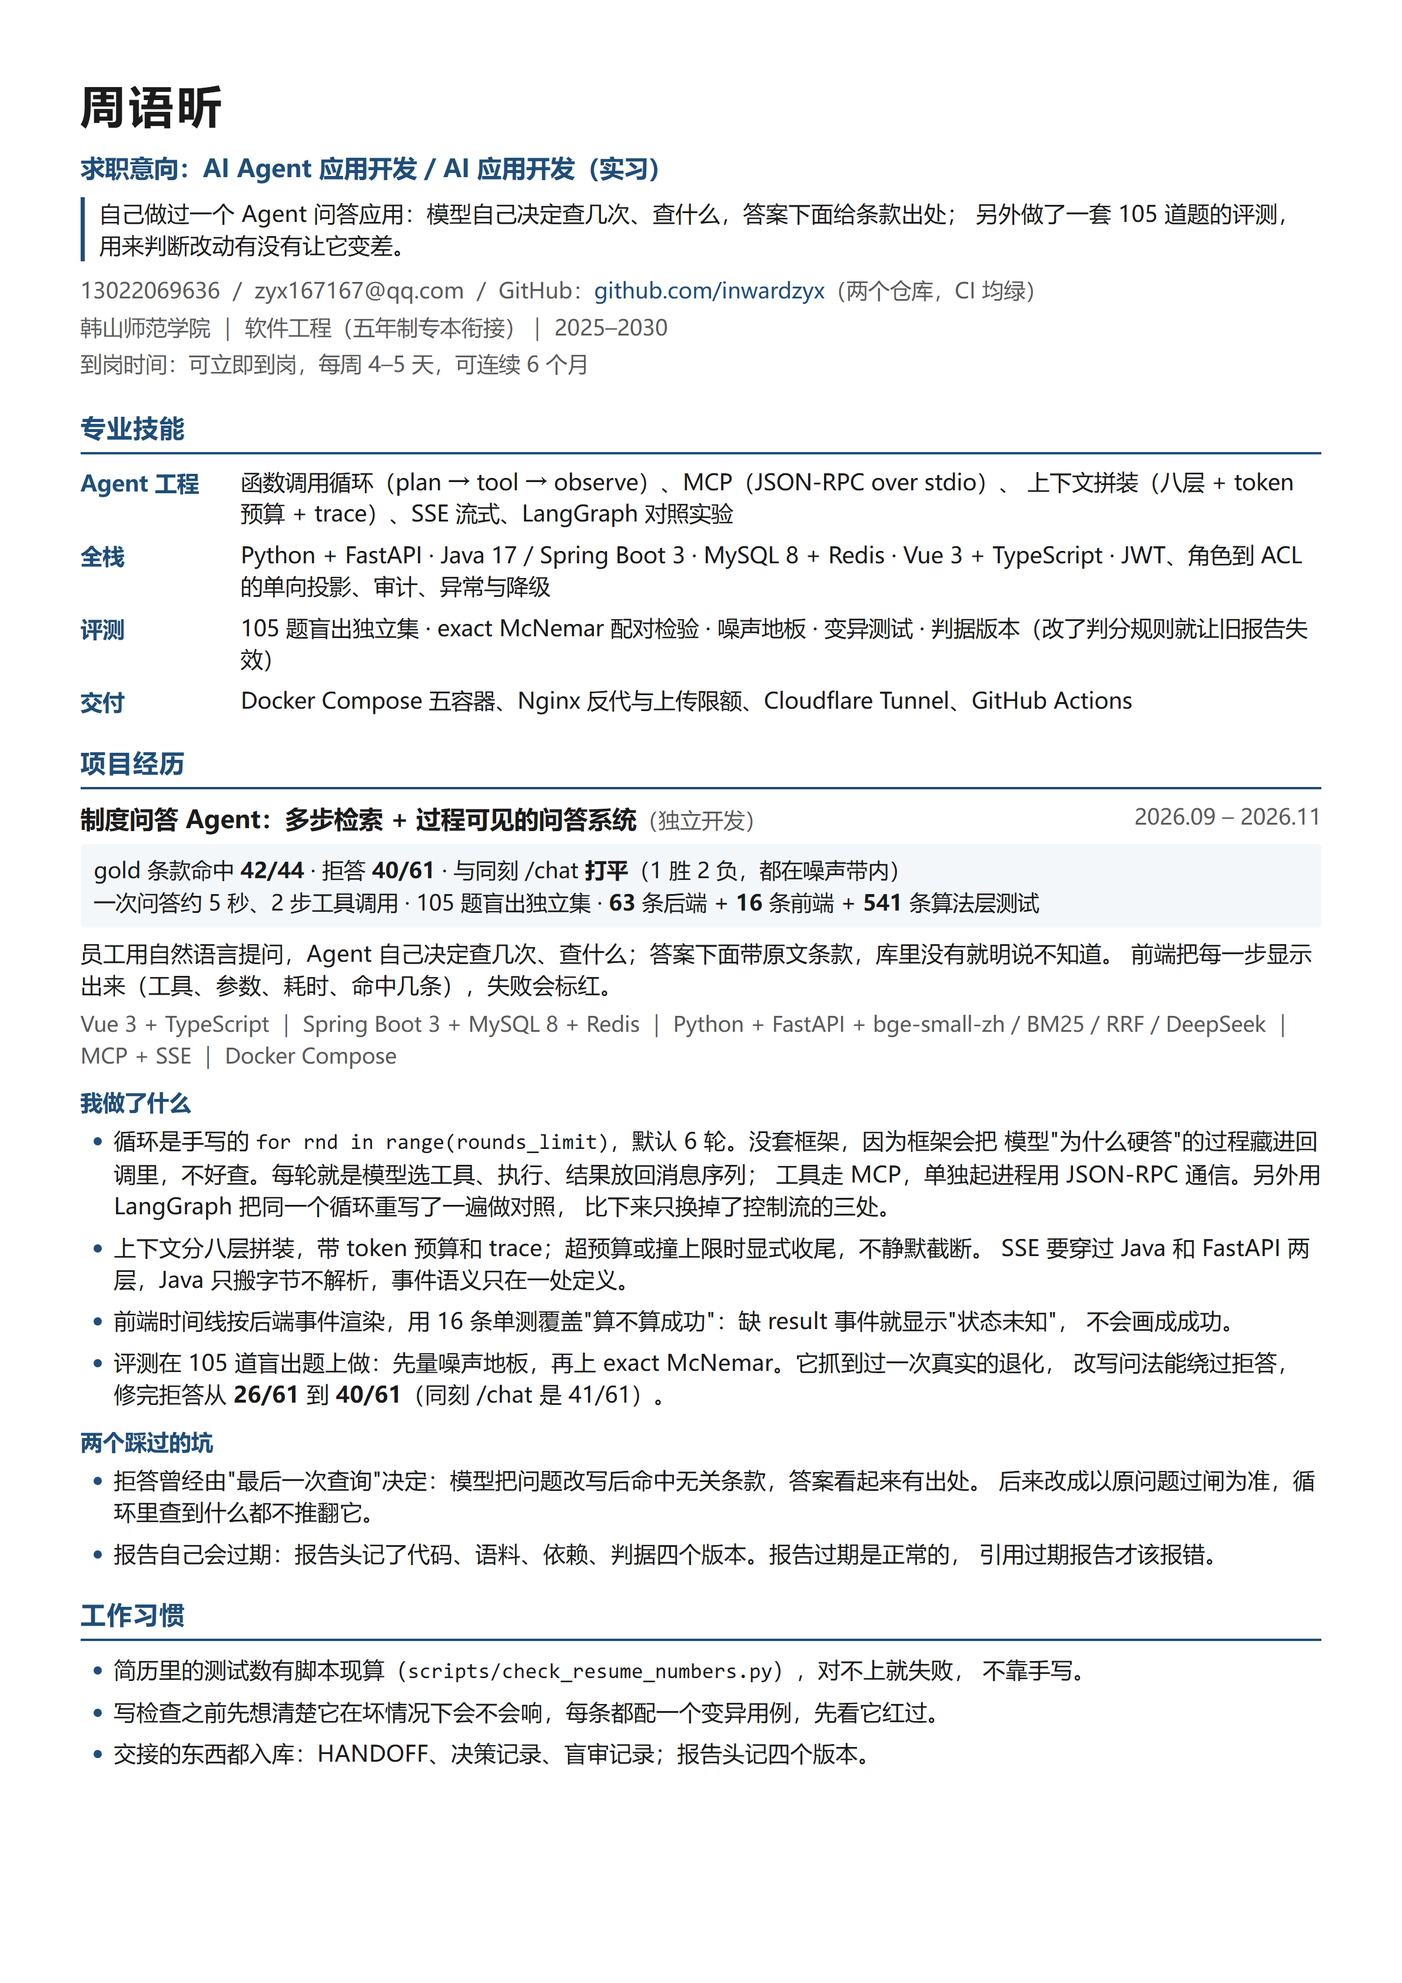
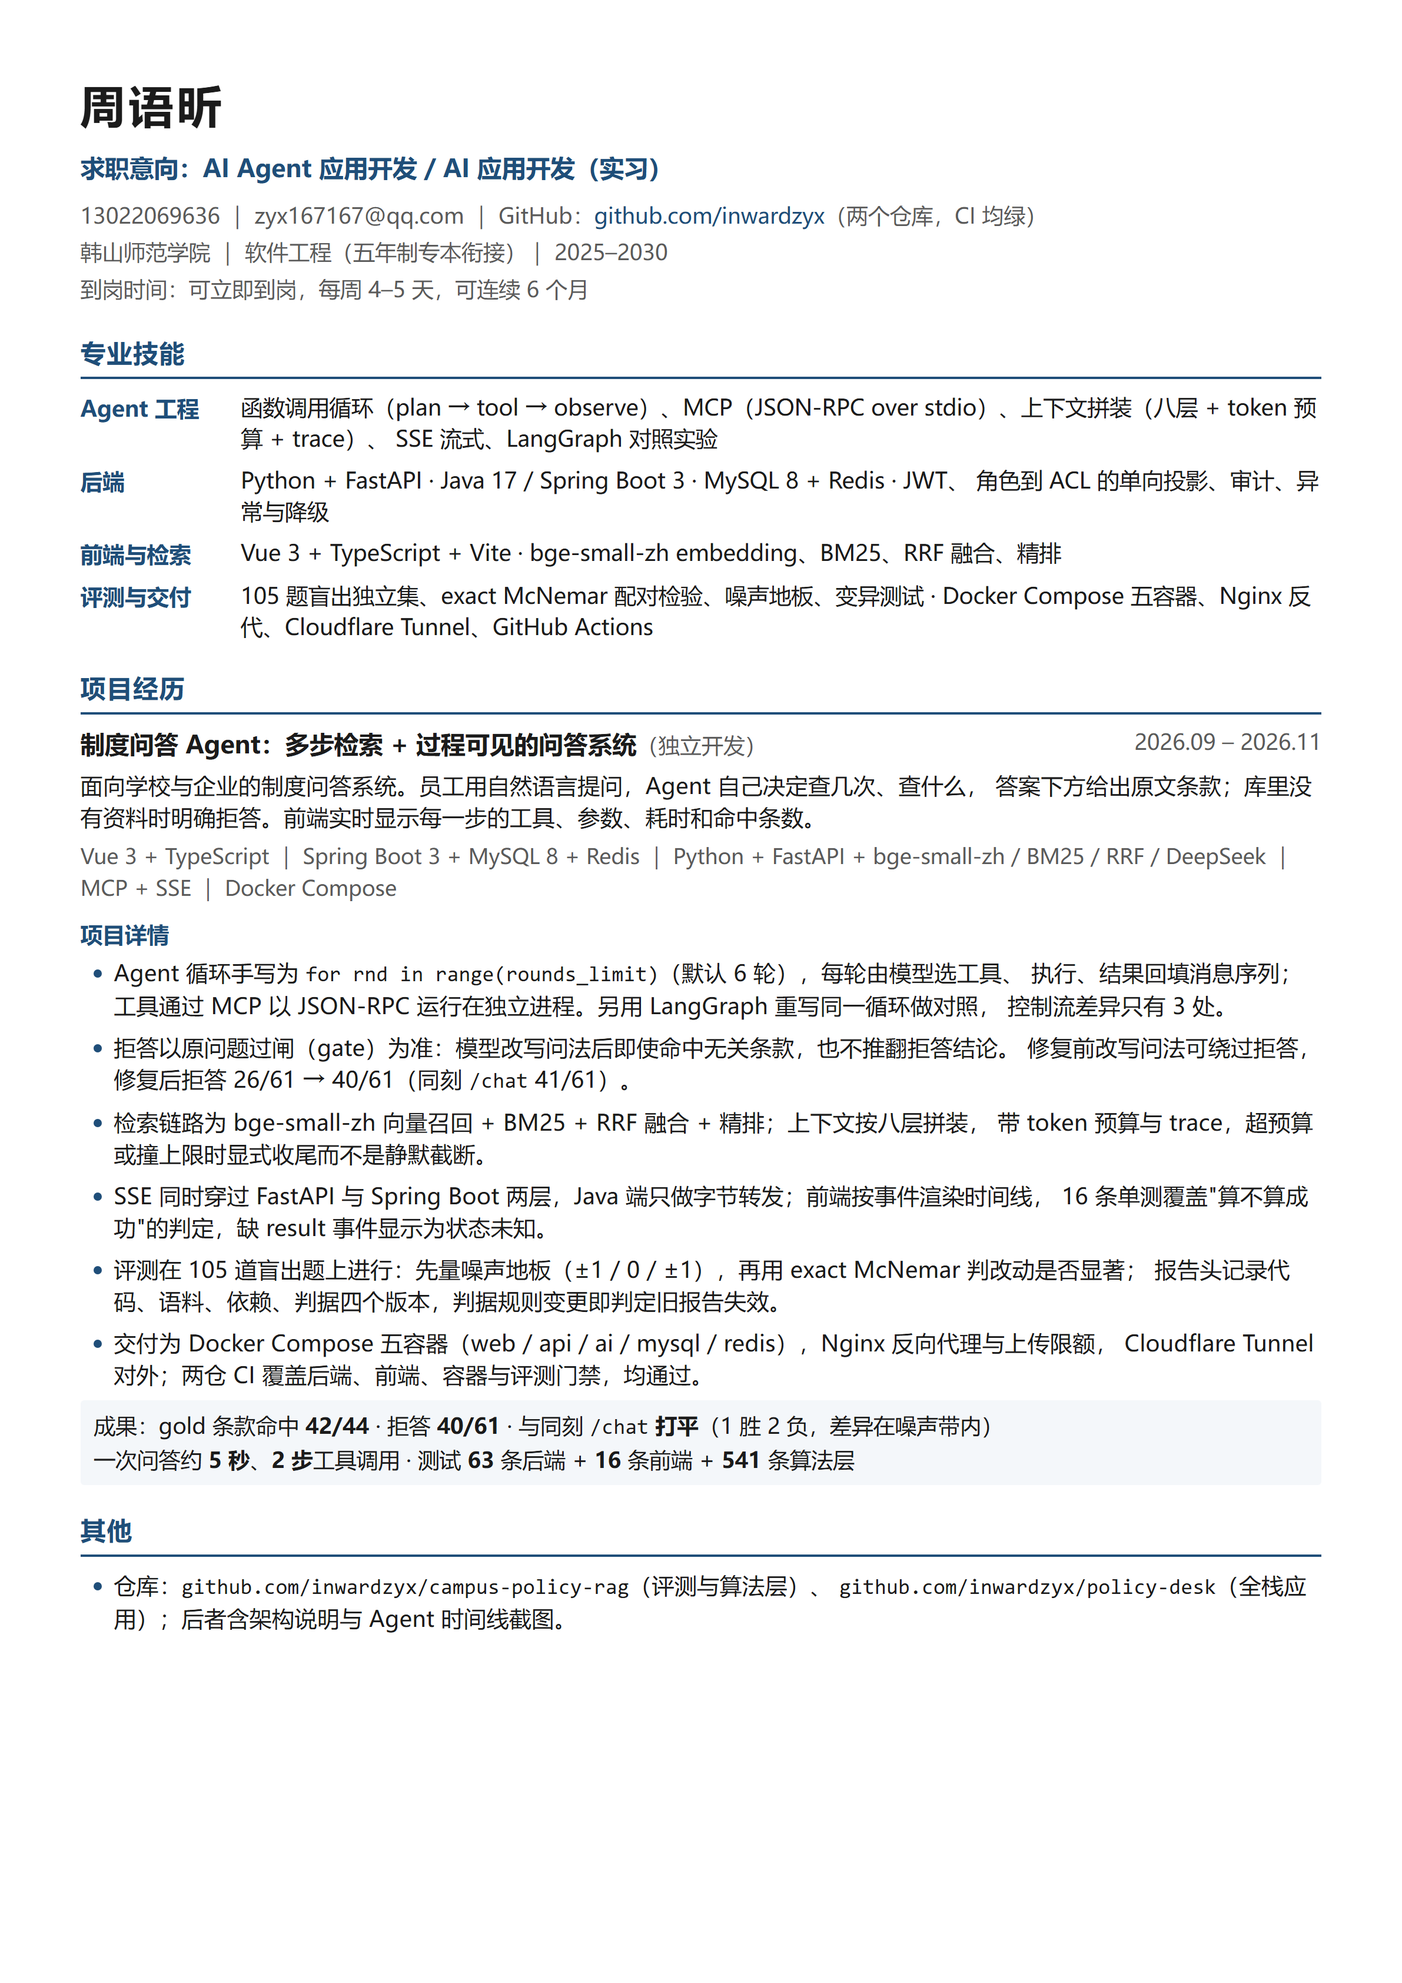
docs(resume): 按项目详情骨架重排 —— 删「工作习惯」「两个踩过的坑」，补检索链路与交付细节
- 删掉两个自评式小节（工作习惯 3 条、两个踩过的坑 2 条）：面试官无法核验，占版面
- 「我做了什么」→「项目详情」，写成 6 条事实：循环与 MCP、拒答过闸与 26/61→40/61、
  检索链路（embedding + BM25 + RRF + 精排）与上下文八层、SSE 两层与 16 条单测、
  105 题评测与四版本、五容器交付与两仓 CI
- 成果单独一块（42/44、40/61、打平、5 秒 2 步、63+16+541），比夹在正文里好扫
- 新增「其他」一节只留两个仓库地址（一行），不放自评
- 仍是一页；破折号 0、加粗 8；check_resume_numbers.py ✓

Changed region(s): [[0.0621, 0.0935, 0.932, 0.9038], [0.7767, 0.0935, 0.9009, 0.1247]]

diff --git a/docs/resume-final-img.html b/docs/resume-final-img.html
@@ -68,12 +68,8 @@
   <div>
     <h1>周语昕</h1>
     <div class="intent">求职意向：AI Agent 应用开发 / AI 应用开发（实习）</div>
-    <div class="pitch">
-      自己做过一个 Agent 问答应用：模型自己决定查几次、查什么，答案下面给条款出处；
-      另外做了一套 105 道题的评测，用来判断改动有没有让它变差。
-    </div>
     <div class="contact">
-      13022069636 ／ zyx167167@qq.com ／
+      13022069636 ｜ zyx167167@qq.com ｜
       GitHub：<a href="https://github.com/inwardzyx">github.com/inwardzyx</a>（两个仓库，CI 均绿）<br />
       韩山师范学院 ｜ 软件工程（五年制专本衔接）｜ 2025–2030<br />
       到岗时间：可立即到岗，每周 4–5 天，可连续 6 个月
@@ -86,64 +82,58 @@
 <h2>专业技能</h2>
 <div class="skills">
   <div class="k">Agent 工程</div>
-  <div>函数调用循环（plan → tool → observe）、MCP（JSON-RPC over stdio）、
-    上下文拼装（八层 + token 预算 + trace）、SSE 流式、LangGraph 对照实验</div>
+  <div>函数调用循环（plan → tool → observe）、MCP（JSON-RPC over stdio）、上下文拼装（八层 + token 预算 + trace）、
+    SSE 流式、LangGraph 对照实验</div>
 
-  <div class="k">全栈</div>
-  <div>Python + FastAPI · Java 17 / Spring Boot 3 · MySQL 8 + Redis · Vue 3 + TypeScript ·
-    JWT、角色到 ACL 的单向投影、审计、异常与降级</div>
+  <div class="k">后端</div>
+  <div>Python + FastAPI · Java 17 / Spring Boot 3 · MySQL 8 + Redis · JWT、
+    角色到 ACL 的单向投影、审计、异常与降级</div>
 
-  <div class="k">评测</div>
-  <div>105 题盲出独立集 · exact McNemar 配对检验 · 噪声地板 · 变异测试 ·
-    判据版本（改了判分规则就让旧报告失效）</div>
+  <div class="k">前端与检索</div>
+  <div>Vue 3 + TypeScript + Vite · bge-small-zh embedding、BM25、RRF 融合、精排</div>
 
-  <div class="k">交付</div>
-  <div>Docker Compose 五容器、Nginx 反代与上传限额、Cloudflare Tunnel、GitHub Actions</div>
+  <div class="k">评测与交付</div>
+  <div>105 题盲出独立集、exact McNemar 配对检验、噪声地板、变异测试 ·
+    Docker Compose 五容器、Nginx 反代、Cloudflare Tunnel、GitHub Actions</div>
 </div>
 
 <h2>项目经历</h2>
 
 <h3>制度问答 Agent：多步检索 + 过程可见的问答系统<span class="role">（独立开发）</span><span class="when">2026.09 – 2026.11</span></h3>
-<div class="result-first">
-  gold 条款命中 <b>42/44</b> · 拒答 <b>40/61</b> · 与同刻 /chat <b>打平</b>（1 胜 2 负，都在噪声带内）<br />
-  一次问答约 5 秒、2 步工具调用 · 105 题盲出独立集 · <b>63</b> 条后端 + <b>16</b> 条前端 + <b>541</b> 条算法层测试
-</div>
 <div class="desc">
-  员工用自然语言提问，Agent 自己决定查几次、查什么；答案下面带原文条款，库里没有就明说不知道。
-  前端把每一步显示出来（工具、参数、耗时、命中几条），失败会标红。
+  面向学校与企业的制度问答系统。员工用自然语言提问，Agent 自己决定查几次、查什么，
+  答案下方给出原文条款；库里没有资料时明确拒答。前端实时显示每一步的工具、参数、耗时和命中条数。
 </div>
 <div class="stack">
   Vue 3 + TypeScript ｜ Spring Boot 3 + MySQL 8 + Redis ｜ Python + FastAPI + bge-small-zh / BM25 / RRF / DeepSeek ｜ MCP + SSE ｜ Docker Compose
 </div>
 
-<div class="lab">我做了什么</div>
+<div class="lab">项目详情</div>
 <ul>
-  <li>循环是手写的 <code>for rnd in range(rounds_limit)</code>，默认 6 轮。没套框架，因为框架会把
-    模型"为什么硬答"的过程藏进回调里，不好查。每轮就是模型选工具、执行、结果放回消息序列；
-    工具走 MCP，单独起进程用 JSON-RPC 通信。另外用 LangGraph 把同一个循环重写了一遍做对照，
-    比下来只换掉了控制流的三处。</li>
-  <li>上下文分八层拼装，带 token 预算和 trace；超预算或撞上限时显式收尾，不静默截断。
-    SSE 要穿过 Java 和 FastAPI 两层，Java 只搬字节不解析，事件语义只在一处定义。</li>
-  <li>前端时间线按后端事件渲染，用 16 条单测覆盖"算不算成功"：缺 result 事件就显示"状态未知"，
-    不会画成成功。</li>
-  <li>评测在 105 道盲出题上做：先量噪声地板，再上 exact McNemar。它抓到过一次真实的退化，
-    改写问法能绕过拒答，修完拒答从 <b>26/61</b> 到 <b>40/61</b>（同刻 /chat 是 41/61）。</li>
+  <li>Agent 循环手写为 <code>for rnd in range(rounds_limit)</code>（默认 6 轮），每轮由模型选工具、
+    执行、结果回填消息序列；工具通过 MCP 以 JSON-RPC 运行在独立进程。另用 LangGraph 重写同一循环做对照，
+    控制流差异只有 3 处。</li>
+  <li>拒答以原问题过闸（gate）为准：模型改写问法后即使命中无关条款，也不推翻拒答结论。
+    修复前改写问法可绕过拒答，修复后拒答 26/61 → 40/61（同刻 <code>/chat</code> 41/61）。</li>
+  <li>检索链路为 bge-small-zh 向量召回 + BM25 + RRF 融合 + 精排；上下文按八层拼装，
+    带 token 预算与 trace，超预算或撞上限时显式收尾而不是静默截断。</li>
+  <li>SSE 同时穿过 FastAPI 与 Spring Boot 两层，Java 端只做字节转发；前端按事件渲染时间线，
+    16 条单测覆盖"算不算成功"的判定，缺 result 事件显示为状态未知。</li>
+  <li>评测在 105 道盲出题上进行：先量噪声地板（±1 / 0 / ±1），再用 exact McNemar 判改动是否显著；
+    报告头记录代码、语料、依赖、判据四个版本，判据规则变更即判定旧报告失效。</li>
+  <li>交付为 Docker Compose 五容器（web / api / ai / mysql / redis），Nginx 反向代理与上传限额，
+    Cloudflare Tunnel 对外；两仓 CI 覆盖后端、前端、容器与评测门禁，均通过。</li>
 </ul>
 
-<div class="lab">两个踩过的坑</div>
-<ul>
-  <li>拒答曾经由"最后一次查询"决定：模型把问题改写后命中无关条款，答案看起来有出处。
-    后来改成以原问题过闸为准，循环里查到什么都不推翻它。</li>
-  <li>报告自己会过期：报告头记了代码、语料、依赖、判据四个版本。报告过期是正常的，
-    引用过期报告才该报错。</li>
-</ul>
+<div class="result-first">
+  成果：gold 条款命中 <b>42/44</b> · 拒答 <b>40/61</b> · 与同刻 <code>/chat</code> <b>打平</b>（1 胜 2 负，差异在噪声带内）<br />
+  一次问答约 <b>5 秒</b>、<b>2 步</b>工具调用 · 测试 <b>63</b> 条后端 + <b>16</b> 条前端 + <b>541</b> 条算法层
+</div>
 
-<h2>工作习惯</h2>
+<h2>其他</h2>
 <ul>
-  <li>简历里的测试数有脚本现算（<code>scripts/check_resume_numbers.py</code>），对不上就失败，
-    不靠手写。</li>
-  <li>写检查之前先想清楚它在坏情况下会不会响，每条都配一个变异用例，先看它红过。</li>
-  <li>交接的东西都入库：HANDOFF、决策记录、盲审记录；报告头记四个版本。</li>
+  <li>仓库：<code>github.com/inwardzyx/campus-policy-rag</code>（评测与算法层）、
+    <code>github.com/inwardzyx/policy-desk</code>（全栈应用）；后者含架构说明与 Agent 时间线截图。</li>
 </ul>
 
 </body>

diff --git a/docs/resume-final.html b/docs/resume-final.html
@@ -67,12 +67,8 @@
   <div>
     <h1>周语昕</h1>
     <div class="intent">求职意向：AI Agent 应用开发 / AI 应用开发（实习）</div>
-    <div class="pitch">
-      自己做过一个 Agent 问答应用：模型自己决定查几次、查什么，答案下面给条款出处；
-      另外做了一套 105 道题的评测，用来判断改动有没有让它变差。
-    </div>
     <div class="contact">
-      13022069636 ／ zyx167167@qq.com ／
+      13022069636 ｜ zyx167167@qq.com ｜
       GitHub：<a href="https://github.com/inwardzyx">github.com/inwardzyx</a>（两个仓库，CI 均绿）<br />
       韩山师范学院 ｜ 软件工程（五年制专本衔接）｜ 2025–2030<br />
       到岗时间：可立即到岗，每周 4–5 天，可连续 6 个月
@@ -85,64 +81,58 @@
 <h2>专业技能</h2>
 <div class="skills">
   <div class="k">Agent 工程</div>
-  <div>函数调用循环（plan → tool → observe）、MCP（JSON-RPC over stdio）、
-    上下文拼装（八层 + token 预算 + trace）、SSE 流式、LangGraph 对照实验</div>
+  <div>函数调用循环（plan → tool → observe）、MCP（JSON-RPC over stdio）、上下文拼装（八层 + token 预算 + trace）、
+    SSE 流式、LangGraph 对照实验</div>
 
-  <div class="k">全栈</div>
-  <div>Python + FastAPI · Java 17 / Spring Boot 3 · MySQL 8 + Redis · Vue 3 + TypeScript ·
-    JWT、角色到 ACL 的单向投影、审计、异常与降级</div>
+  <div class="k">后端</div>
+  <div>Python + FastAPI · Java 17 / Spring Boot 3 · MySQL 8 + Redis · JWT、
+    角色到 ACL 的单向投影、审计、异常与降级</div>
 
-  <div class="k">评测</div>
-  <div>105 题盲出独立集 · exact McNemar 配对检验 · 噪声地板 · 变异测试 ·
-    判据版本（改了判分规则就让旧报告失效）</div>
+  <div class="k">前端与检索</div>
+  <div>Vue 3 + TypeScript + Vite · bge-small-zh embedding、BM25、RRF 融合、精排</div>
 
-  <div class="k">交付</div>
-  <div>Docker Compose 五容器、Nginx 反代与上传限额、Cloudflare Tunnel、GitHub Actions</div>
+  <div class="k">评测与交付</div>
+  <div>105 题盲出独立集、exact McNemar 配对检验、噪声地板、变异测试 ·
+    Docker Compose 五容器、Nginx 反代、Cloudflare Tunnel、GitHub Actions</div>
 </div>
 
 <h2>项目经历</h2>
 
 <h3>制度问答 Agent：多步检索 + 过程可见的问答系统<span class="role">（独立开发）</span><span class="when">2026.09 – 2026.11</span></h3>
-<div class="result-first">
-  gold 条款命中 <b>42/44</b> · 拒答 <b>40/61</b> · 与同刻 /chat <b>打平</b>（1 胜 2 负，都在噪声带内）<br />
-  一次问答约 5 秒、2 步工具调用 · 105 题盲出独立集 · <b>63</b> 条后端 + <b>16</b> 条前端 + <b>541</b> 条算法层测试
-</div>
 <div class="desc">
-  员工用自然语言提问，Agent 自己决定查几次、查什么；答案下面带原文条款，库里没有就明说不知道。
-  前端把每一步显示出来（工具、参数、耗时、命中几条），失败会标红。
+  面向学校与企业的制度问答系统。员工用自然语言提问，Agent 自己决定查几次、查什么，
+  答案下方给出原文条款；库里没有资料时明确拒答。前端实时显示每一步的工具、参数、耗时和命中条数。
 </div>
 <div class="stack">
   Vue 3 + TypeScript ｜ Spring Boot 3 + MySQL 8 + Redis ｜ Python + FastAPI + bge-small-zh / BM25 / RRF / DeepSeek ｜ MCP + SSE ｜ Docker Compose
 </div>
 
-<div class="lab">我做了什么</div>
+<div class="lab">项目详情</div>
 <ul>
-  <li>循环是手写的 <code>for rnd in range(rounds_limit)</code>，默认 6 轮。没套框架，因为框架会把
-    模型"为什么硬答"的过程藏进回调里，不好查。每轮就是模型选工具、执行、结果放回消息序列；
-    工具走 MCP，单独起进程用 JSON-RPC 通信。另外用 LangGraph 把同一个循环重写了一遍做对照，
-    比下来只换掉了控制流的三处。</li>
-  <li>上下文分八层拼装，带 token 预算和 trace；超预算或撞上限时显式收尾，不静默截断。
-    SSE 要穿过 Java 和 FastAPI 两层，Java 只搬字节不解析，事件语义只在一处定义。</li>
-  <li>前端时间线按后端事件渲染，用 16 条单测覆盖"算不算成功"：缺 result 事件就显示"状态未知"，
-    不会画成成功。</li>
-  <li>评测在 105 道盲出题上做：先量噪声地板，再上 exact McNemar。它抓到过一次真实的退化，
-    改写问法能绕过拒答，修完拒答从 <b>26/61</b> 到 <b>40/61</b>（同刻 /chat 是 41/61）。</li>
+  <li>Agent 循环手写为 <code>for rnd in range(rounds_limit)</code>（默认 6 轮），每轮由模型选工具、
+    执行、结果回填消息序列；工具通过 MCP 以 JSON-RPC 运行在独立进程。另用 LangGraph 重写同一循环做对照，
+    控制流差异只有 3 处。</li>
+  <li>拒答以原问题过闸（gate）为准：模型改写问法后即使命中无关条款，也不推翻拒答结论。
+    修复前改写问法可绕过拒答，修复后拒答 26/61 → 40/61（同刻 <code>/chat</code> 41/61）。</li>
+  <li>检索链路为 bge-small-zh 向量召回 + BM25 + RRF 融合 + 精排；上下文按八层拼装，
+    带 token 预算与 trace，超预算或撞上限时显式收尾而不是静默截断。</li>
+  <li>SSE 同时穿过 FastAPI 与 Spring Boot 两层，Java 端只做字节转发；前端按事件渲染时间线，
+    16 条单测覆盖"算不算成功"的判定，缺 result 事件显示为状态未知。</li>
+  <li>评测在 105 道盲出题上进行：先量噪声地板（±1 / 0 / ±1），再用 exact McNemar 判改动是否显著；
+    报告头记录代码、语料、依赖、判据四个版本，判据规则变更即判定旧报告失效。</li>
+  <li>交付为 Docker Compose 五容器（web / api / ai / mysql / redis），Nginx 反向代理与上传限额，
+    Cloudflare Tunnel 对外；两仓 CI 覆盖后端、前端、容器与评测门禁，均通过。</li>
 </ul>
 
-<div class="lab">两个踩过的坑</div>
-<ul>
-  <li>拒答曾经由"最后一次查询"决定：模型把问题改写后命中无关条款，答案看起来有出处。
-    后来改成以原问题过闸为准，循环里查到什么都不推翻它。</li>
-  <li>报告自己会过期：报告头记了代码、语料、依赖、判据四个版本。报告过期是正常的，
-    引用过期报告才该报错。</li>
-</ul>
+<div class="result-first">
+  成果：gold 条款命中 <b>42/44</b> · 拒答 <b>40/61</b> · 与同刻 <code>/chat</code> <b>打平</b>（1 胜 2 负，差异在噪声带内）<br />
+  一次问答约 <b>5 秒</b>、<b>2 步</b>工具调用 · 测试 <b>63</b> 条后端 + <b>16</b> 条前端 + <b>541</b> 条算法层
+</div>
 
-<h2>工作习惯</h2>
+<h2>其他</h2>
 <ul>
-  <li>简历里的测试数有脚本现算（<code>scripts/check_resume_numbers.py</code>），对不上就失败，
-    不靠手写。</li>
-  <li>写检查之前先想清楚它在坏情况下会不会响，每条都配一个变异用例，先看它红过。</li>
-  <li>交接的东西都入库：HANDOFF、决策记录、盲审记录；报告头记四个版本。</li>
+  <li>仓库：<code>github.com/inwardzyx/campus-policy-rag</code>（评测与算法层）、
+    <code>github.com/inwardzyx/policy-desk</code>（全栈应用）；后者含架构说明与 Agent 时间线截图。</li>
 </ul>
 
 </body>

diff --git a/scripts/check_resume_numbers.py b/scripts/check_resume_numbers.py
@@ -148,7 +148,7 @@ def main() -> int:
     claim(r"(\d+) 条后端", java, "后端测试数")
     claim(r"(\d+) 条前端", fe, "前端单测数")
     if py is not None:
-        claim(r"(\d+) 条算法层测试", py, "算法层测试数")
+        claim(r"(\d+) 条算法层", py, "算法层测试数")
     else:
         print("SKIP 算法层测试数（外部仓库不在；CI 只 checkout 本仓库）")
 
